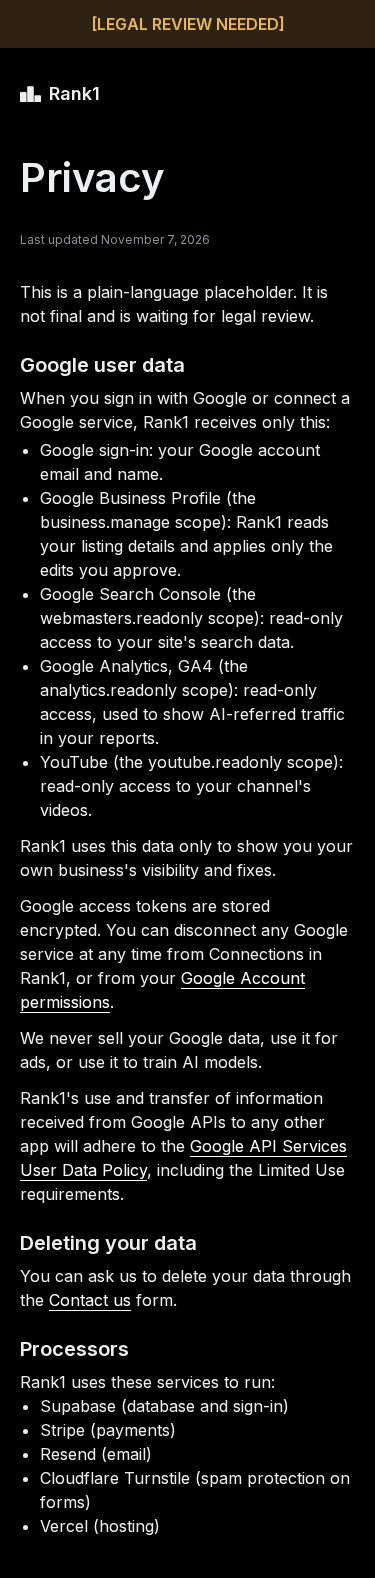
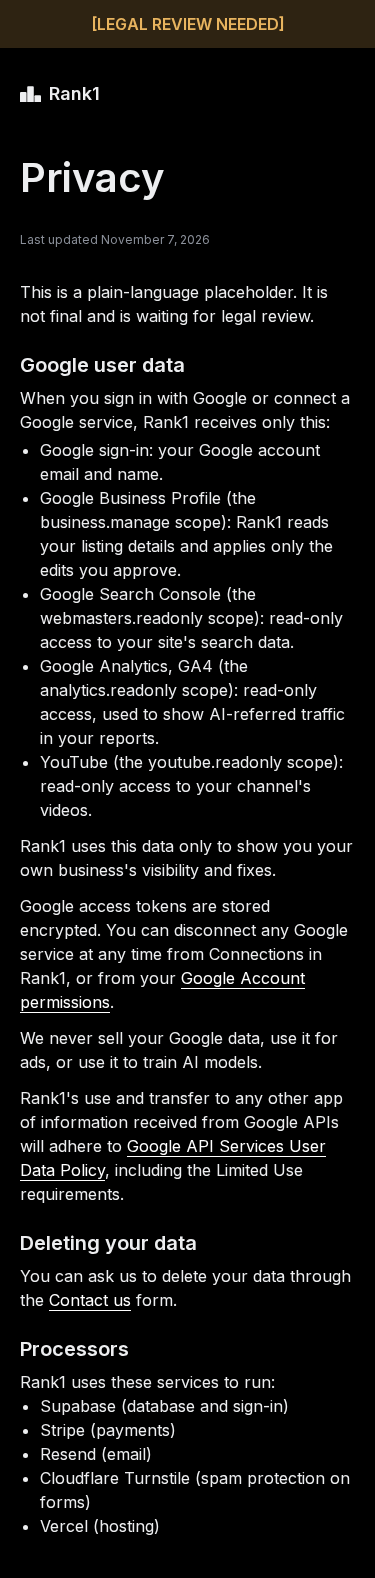
fix(legal): Google's exact Limited Use sentence (review)

Changed region(s): [[0.0587, 0.6831, 0.9387, 0.7452]]

diff --git a/src/app/privacy/page.tsx b/src/app/privacy/page.tsx
@@ -46,7 +46,7 @@ export default function PrivacyPage() {
         </p>
         <p>We never sell your Google data, use it for ads, or use it to train AI models.</p>
         <p>
-          Rank1&apos;s use and transfer of information received from Google APIs to any other app will adhere to the{" "}
+          Rank1&apos;s use and transfer to any other app of information received from Google APIs will adhere to{" "}
           <a href={POLICY} className={link}>
             Google API Services User Data Policy
           </a>

diff --git a/docs/COPY.md b/docs/COPY.md
@@ -580,7 +580,7 @@ The /privacy section Google OAuth verification needs. The Limited Use sentence i
 | Use | "Rank1 uses this data only to show you your own business's visibility and fixes." |
 | Storage | "Google access tokens are stored encrypted. You can disconnect any Google service at any time from Connections in Rank1, or from your Google Account permissions." |
 | Never | "We never sell your Google data, use it for ads, or use it to train AI models." |
-| Limited Use | "Rank1's use and transfer of information received from Google APIs to any other app will adhere to the Google API Services User Data Policy, including the Limited Use requirements." |
+| Limited Use | "Rank1's use and transfer to any other app of information received from Google APIs will adhere to Google API Services User Data Policy, including the Limited Use requirements." |
 
 ## Engine location tooltip
 
